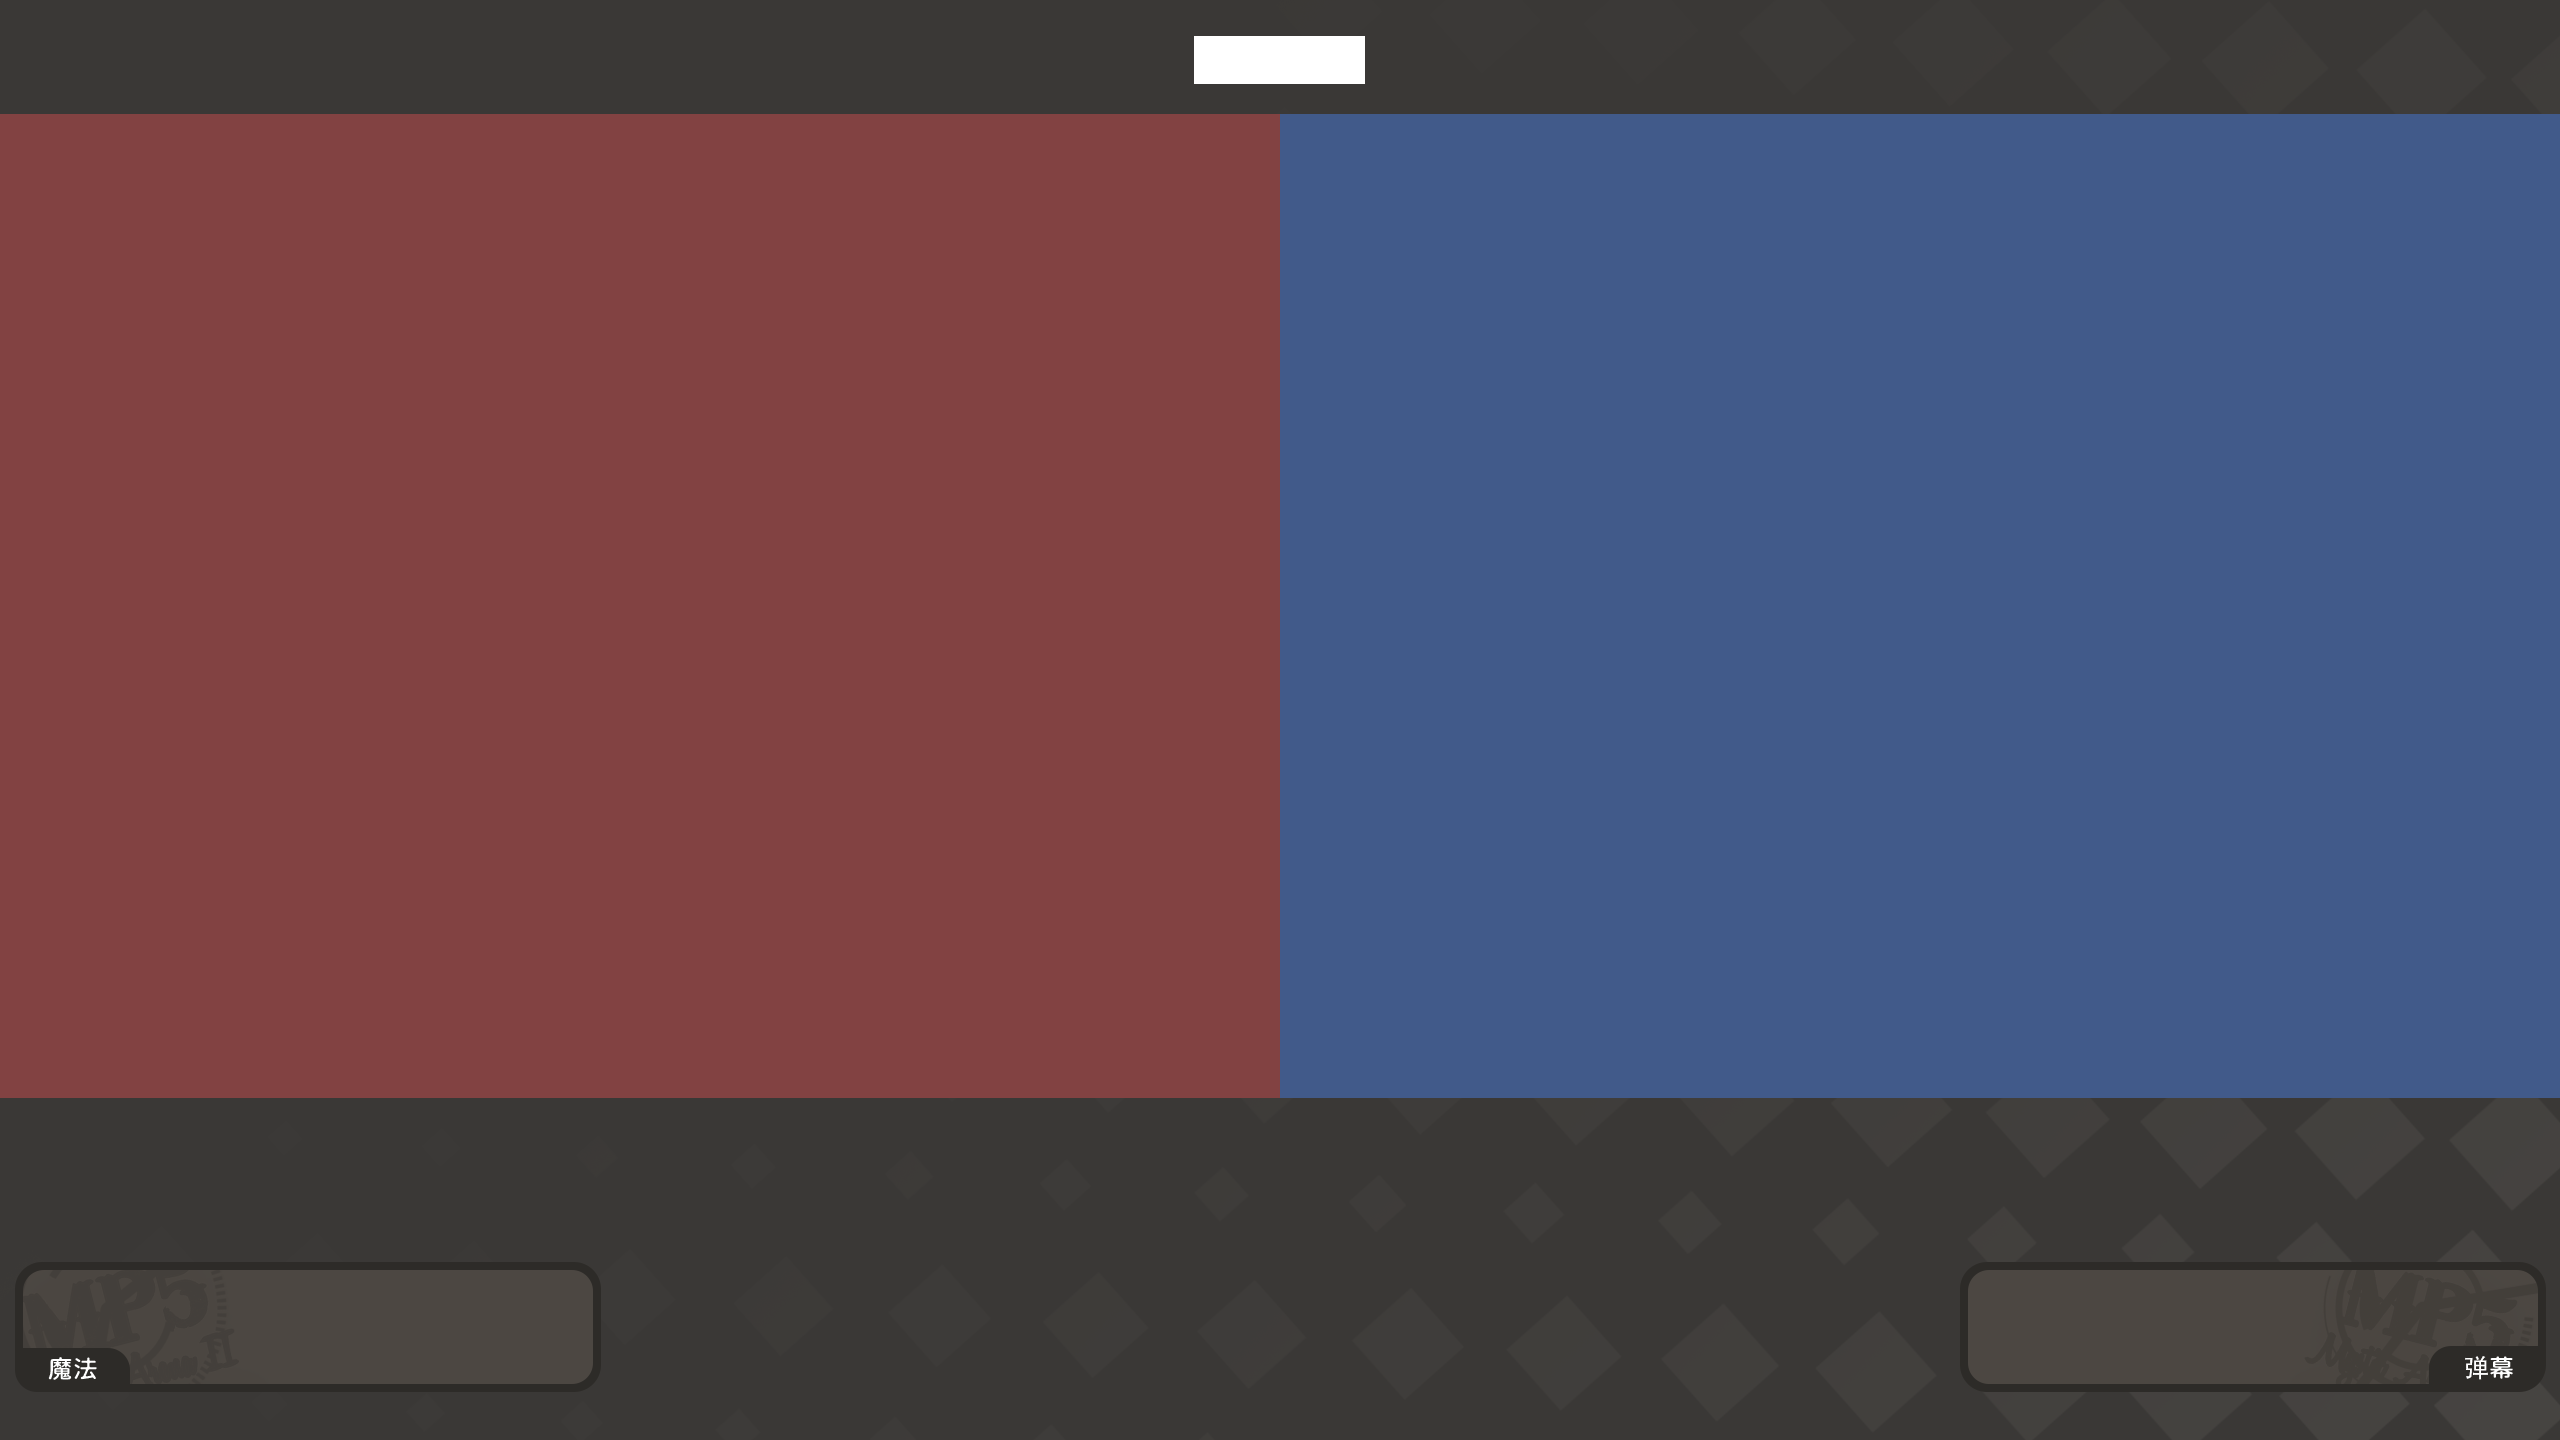
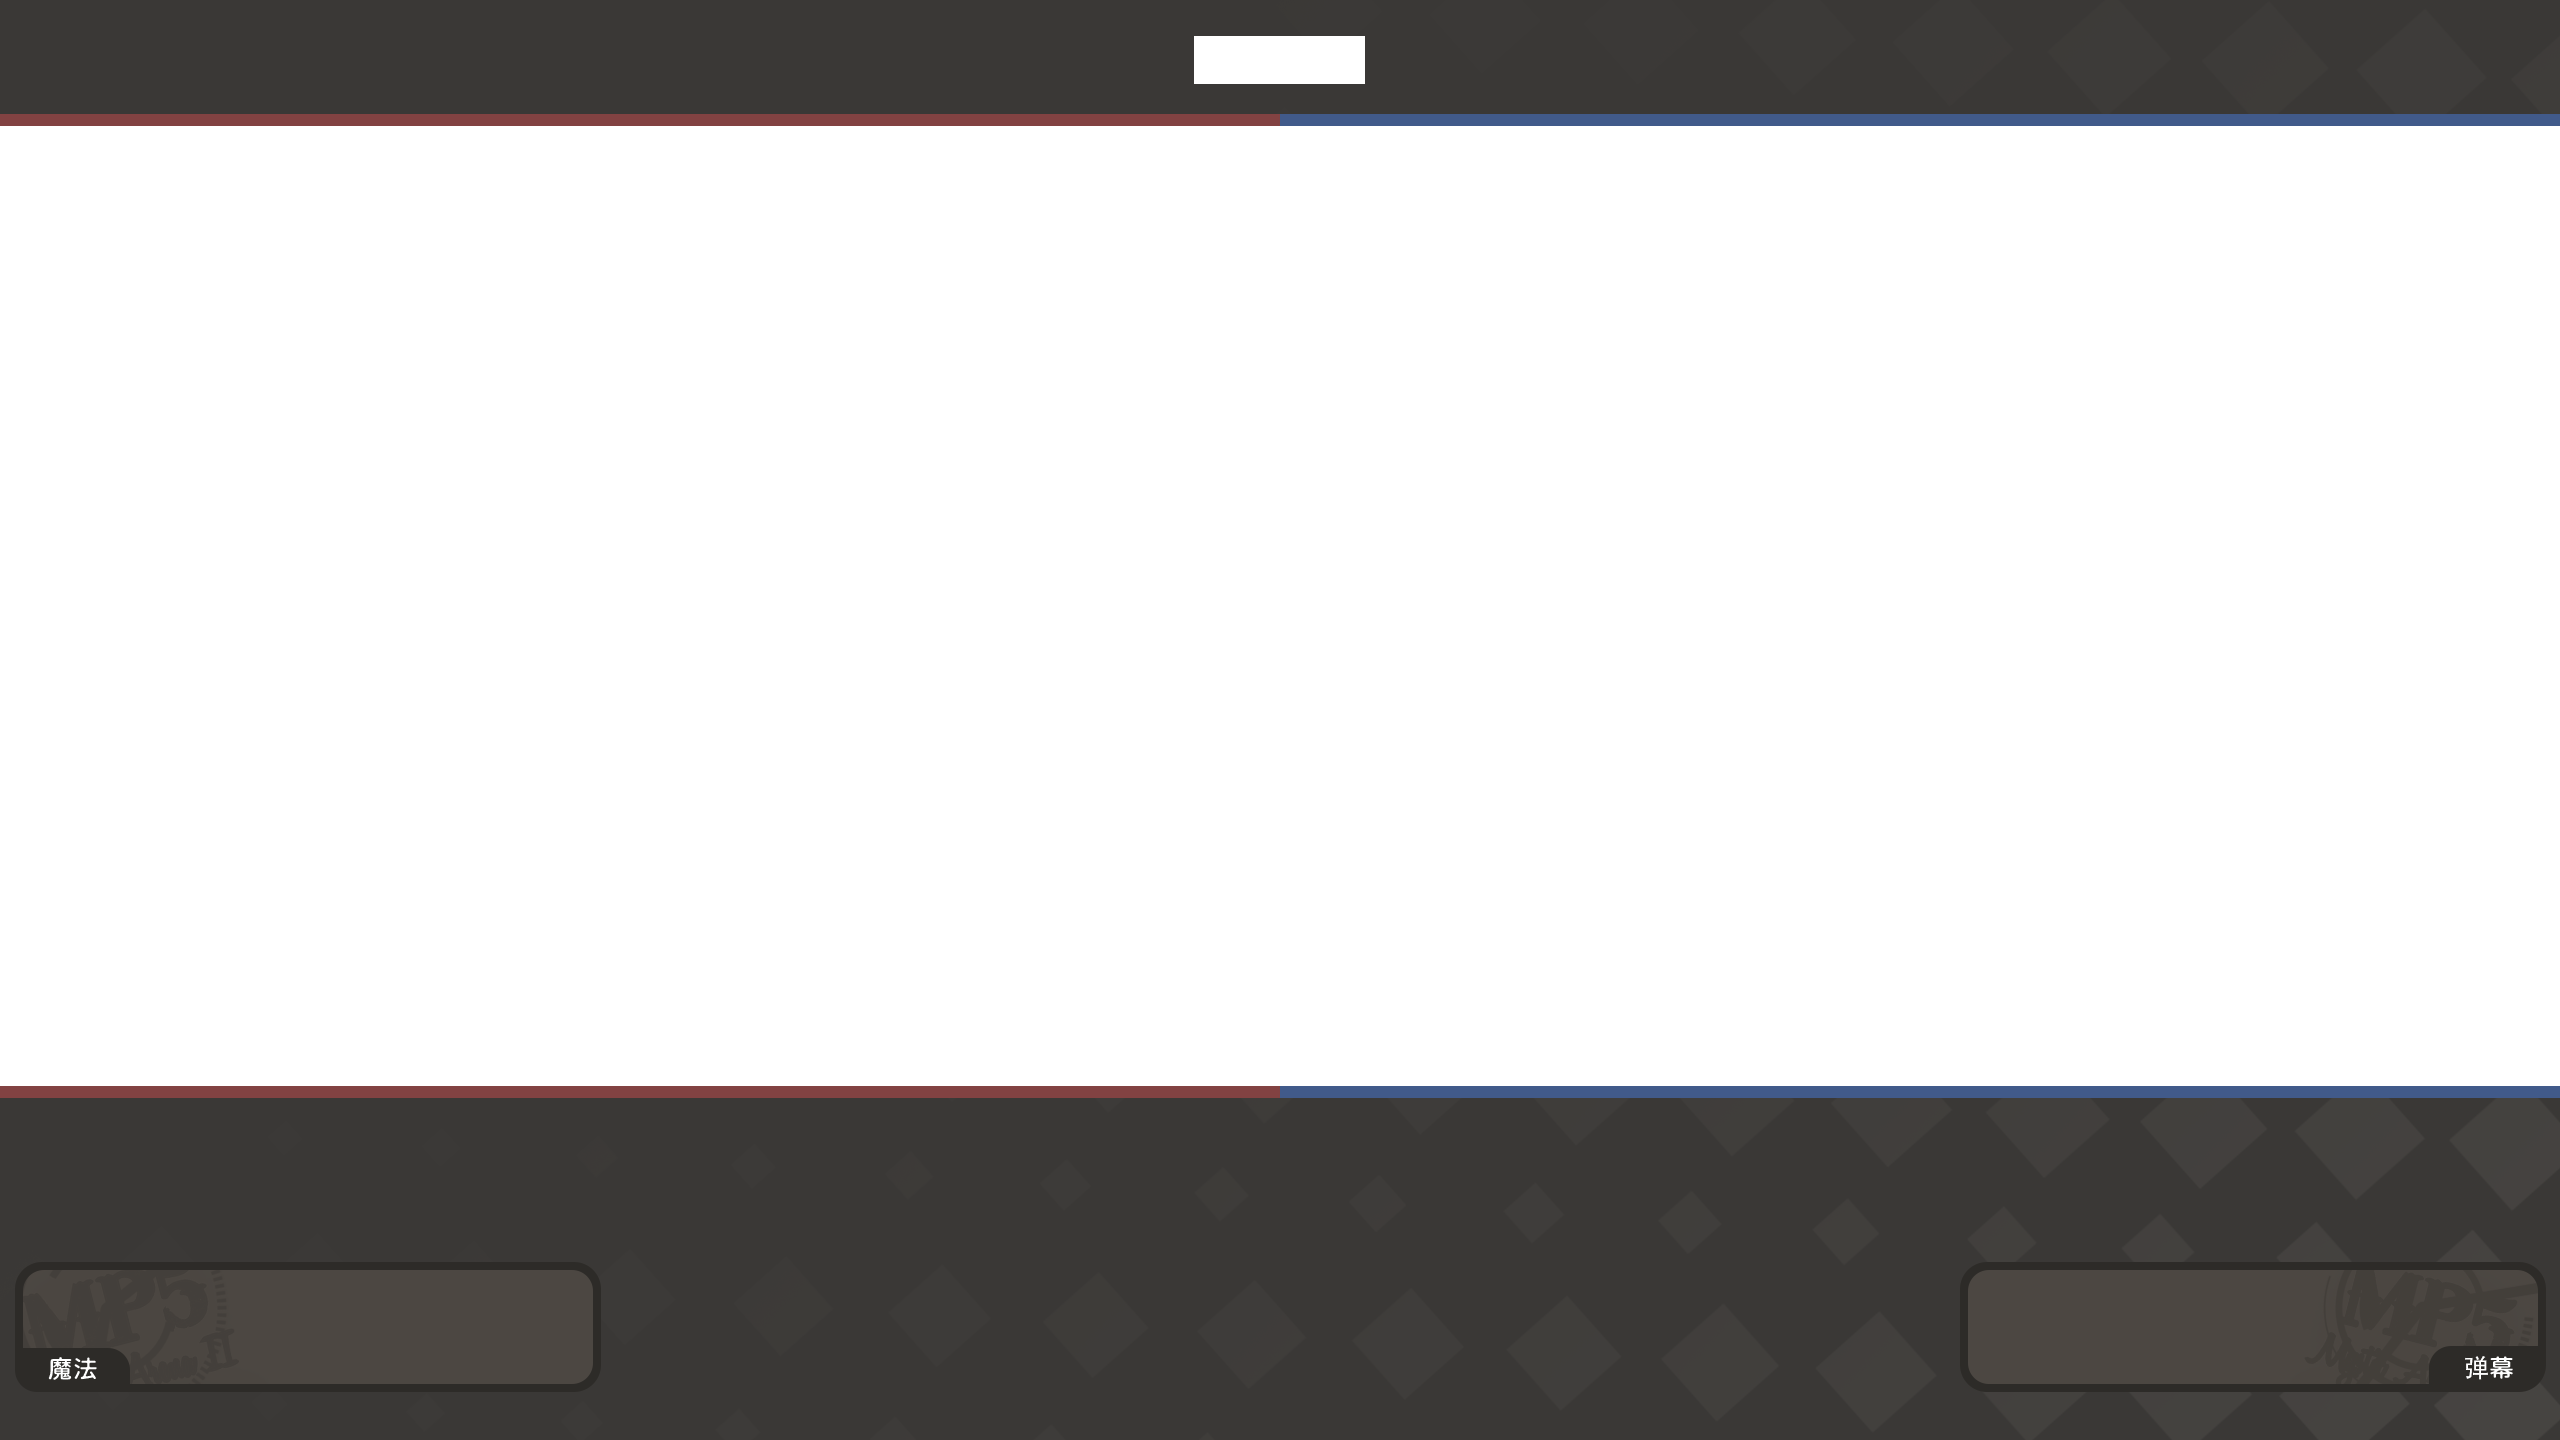
feat: 抠出透明区域以便playing场景罩在游戏上方；为魔法提示添加淡入淡出效果

diff --git a/MP5_PLAYING/style.css b/MP5_PLAYING/style.css
@@ -289,7 +289,8 @@ body {
     height: 655px;
     background-color: #2d2b28;
     border-radius: 70px;
-    display: none;
+    opacity: 0;
+    display: flex;
     justify-content: center;
     align-content: center;
     flex-direction: column;
@@ -297,7 +298,7 @@ body {
     overflow: hidden;
 }
 
-#magic-note-container :after {
+.blink:after {
     content: '';
     position: absolute;
     left: -120%;
@@ -306,12 +307,16 @@ body {
     height: 100%;
     background-image: linear-gradient(0deg, rgba(255, 255, 255, 0), rgba(255, 255, 255, 0.5), rgba(255, 255, 255, 0));
     transform: skewx(-25deg);
-    animation: slideInAndOut 1s 2; /* 动画名称、持续时间和循环次数 */
+    animation: slideInAndOut 1s 1; /* 动画名称、持续时间和循环次数 */
 }
 
 @keyframes slideInAndOut {
-    0% { left: -120%; }
-    100% { left: 120%; }
+    0% {
+        left: -120%;
+    }
+    100% {
+        left: 120%;
+    }
 }
 
 #magic-label {
@@ -356,6 +361,7 @@ body {
 .fade-in {
     transition: opacity 0.5s ease; /* 透明度过渡0.5秒，效果平滑 */
 }
+
 .fade-out {
     transition: opacity 0.5s ease; /* 透明度过渡0.5秒，效果平滑 */
     opacity: 0; /* 淡出至完全透明 */

diff --git a/MP5_PLAYING/index.js b/MP5_PLAYING/index.js
@@ -363,15 +363,17 @@ document.querySelectorAll("#magic-control-buttons button").forEach(button => {
                 document.getElementById("magic-full-note").innerText = magic.fullNote;
 
 
-                // 给magic-note-container加animated类 1秒后加shown类
                 let operation = document.getElementById("magic-note-container");
-
-                operation.style.display = "flex";
+                operation.classList.add('fade-in');
+                operation.classList.add('blink');
+                operation.style.opacity = "0.99";
 
                 clearTimeout(hideTimer);
-
                 hideTimer = setTimeout(function () {
                     operation.classList.add('fade-out');
+                    operation.classList.remove('fade-in');
+                    operation.classList.remove('blink');
+                    operation.style.opacity = "0";
                 }, 4000);
             }
         )
